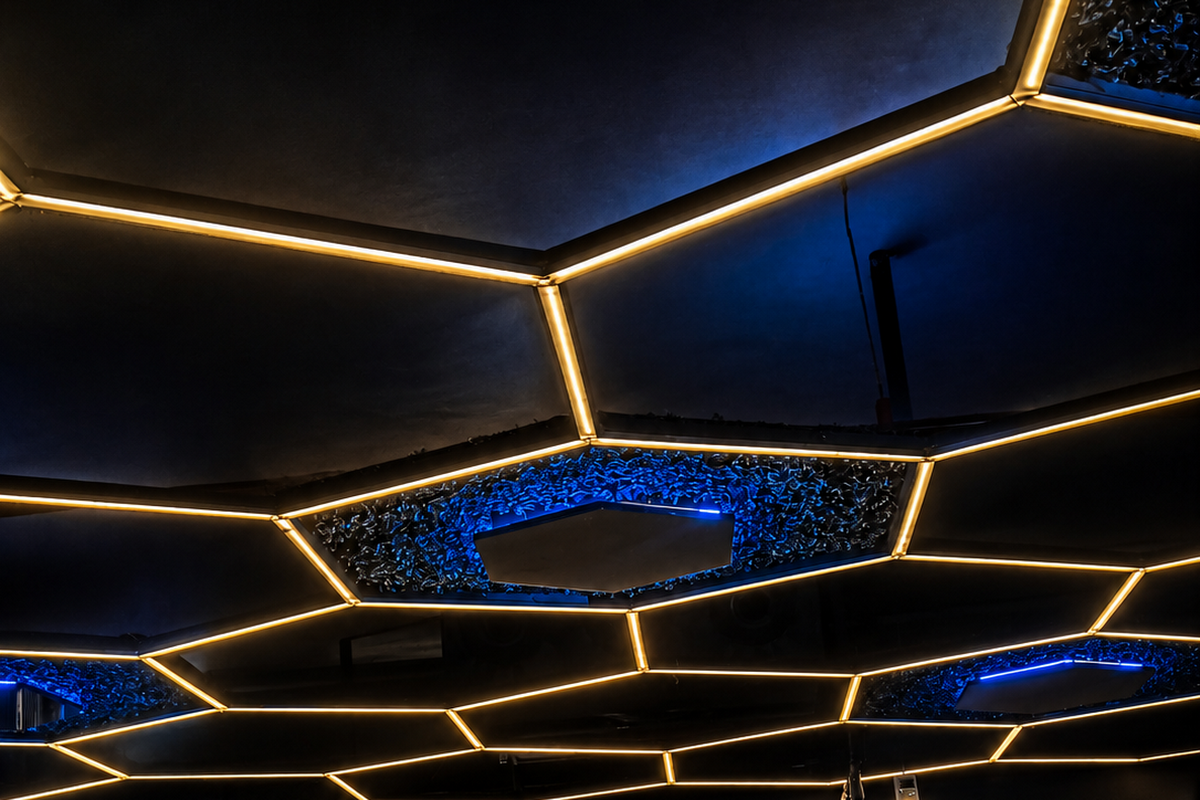
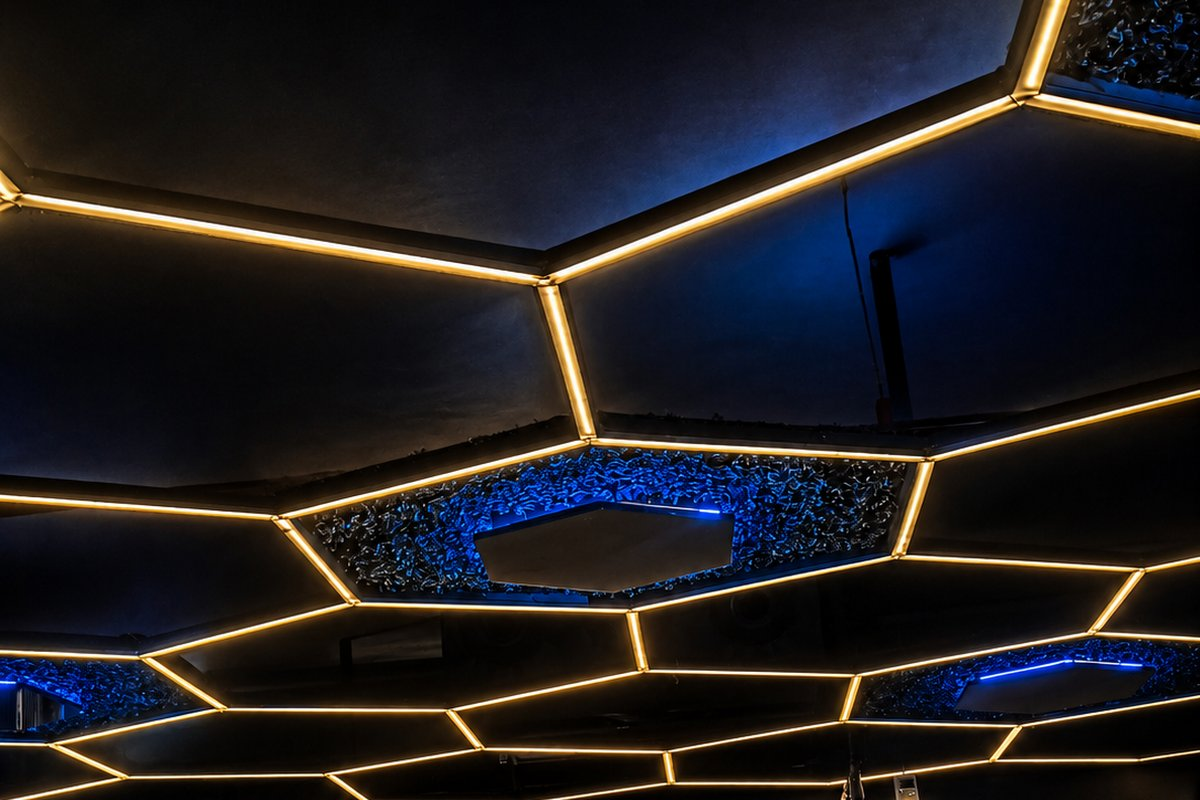
feat(sites): add batch of 1 client sites [gymparadox]

diff --git a/public/sites/gymparadox/index.html b/public/sites/gymparadox/index.html
@@ -237,7 +237,7 @@
                         
                         <!-- MANDATORY AUTHENTIC HERO IMAGE -->
                         <div class="relative w-full h-72 sm:h-84 lg:h-[400px] overflow-hidden rounded-2xl">
-                            <img src="/sites/gymparadox/assets/hero.jpg" onerror="this.onerror=null; this.src='https://images.unsplash.com/photo-1534438327276-14e5300c3a48?auto=format&amp;fit=crop&amp;w=1200&amp;q=80';" alt="Wide view of gym floor at The Gym Paradox Patna" class="w-full h-full object-cover group-hover:scale-105 transition-transform duration-500">
+                            <img src="/sites/gymparadox/assets/hero.jpg" alt="Wide view of gym floor at The Gym Paradox Patna" class="w-full h-full object-cover group-hover:scale-105 transition-transform duration-500">
                             
                             <!-- House Signature Badge -->
                             <span class="absolute top-4 left-4 bg-[#D4AF37] text-black font-black text-xs px-3 py-1.5 rounded-full uppercase tracking-wider shadow-lg">
@@ -419,8 +419,8 @@
 
                 <div class="col-span-1 lg:col-span-6">
                     <div class="grid grid-cols-2 gap-4">
-                        <img src="/sites/gymparadox/assets/gallery-1.jpg" onerror="this.onerror=null; this.src='https://images.unsplash.com/photo-1586401100295-7a8096fd231a?auto=format&amp;fit=crop&amp;w=1200&amp;q=80';" alt="Exterior building signage at dusk" class="w-full h-64 sm:h-80 object-cover rounded-2xl shadow-xl border border-zinc-800">
-                        <img src="/sites/gymparadox/assets/gallery-2.jpg" onerror="this.onerror=null; this.src='https://images.unsplash.com/photo-1576678927484-cc907957088c?auto=format&amp;fit=crop&amp;w=1200&amp;q=80';" alt="Geometric ceiling lighting design detail" class="w-full h-64 sm:h-80 object-cover rounded-2xl shadow-xl border border-zinc-800 mt-8">
+                        <img src="/sites/gymparadox/assets/gallery-1.jpg" alt="Exterior building signage at dusk" class="w-full h-64 sm:h-80 object-cover rounded-2xl shadow-xl border border-zinc-800">
+                        <img src="/sites/gymparadox/assets/gallery-2.jpg" alt="Geometric ceiling lighting design detail" class="w-full h-64 sm:h-80 object-cover rounded-2xl shadow-xl border border-zinc-800 mt-8">
                     </div>
                 </div>
 
@@ -440,7 +440,7 @@
             <div class="grid grid-cols-1 md:grid-cols-2 gap-8 max-w-5xl mx-auto">
                 <div class="relative group overflow-hidden rounded-3xl border border-zinc-800 bg-zinc-900 shadow-xl">
                     <div class="relative w-full h-72 sm:h-96 overflow-hidden">
-                        <img src="/sites/gymparadox/assets/gallery-1.jpg" onerror="this.onerror=null; this.src='https://images.unsplash.com/photo-1586401100295-7a8096fd231a?auto=format&amp;fit=crop&amp;w=1200&amp;q=80';" alt="Exterior building signage at dusk" class="w-full h-full object-cover group-hover:scale-105 transition-transform duration-500">
+                        <img src="/sites/gymparadox/assets/gallery-1.jpg" alt="Exterior building signage at dusk" class="w-full h-full object-cover group-hover:scale-105 transition-transform duration-500">
                         <div class="absolute inset-0 bg-gradient-to-t from-black/90 via-black/30 to-transparent flex items-end p-6">
                             <div>
                                 <span class="text-[#D4AF37] text-xs font-bold uppercase tracking-wider">Signage &amp; Entrance</span>
@@ -452,7 +452,7 @@
 
                 <div class="relative group overflow-hidden rounded-3xl border border-zinc-800 bg-zinc-900 shadow-xl">
                     <div class="relative w-full h-72 sm:h-96 overflow-hidden">
-                        <img src="/sites/gymparadox/assets/gallery-2.jpg" onerror="this.onerror=null; this.src='https://images.unsplash.com/photo-1576678927484-cc907957088c?auto=format&amp;fit=crop&amp;w=1200&amp;q=80';" alt="Geometric ceiling lighting design detail" class="w-full h-full object-cover group-hover:scale-105 transition-transform duration-500">
+                        <img src="/sites/gymparadox/assets/gallery-2.jpg" alt="Geometric ceiling lighting design detail" class="w-full h-full object-cover group-hover:scale-105 transition-transform duration-500">
                         <div class="absolute inset-0 bg-gradient-to-t from-black/90 via-black/30 to-transparent flex items-end p-6">
                             <div>
                                 <span class="text-[#D4AF37] text-xs font-bold uppercase tracking-wider">Ambiance &amp; Design</span>
